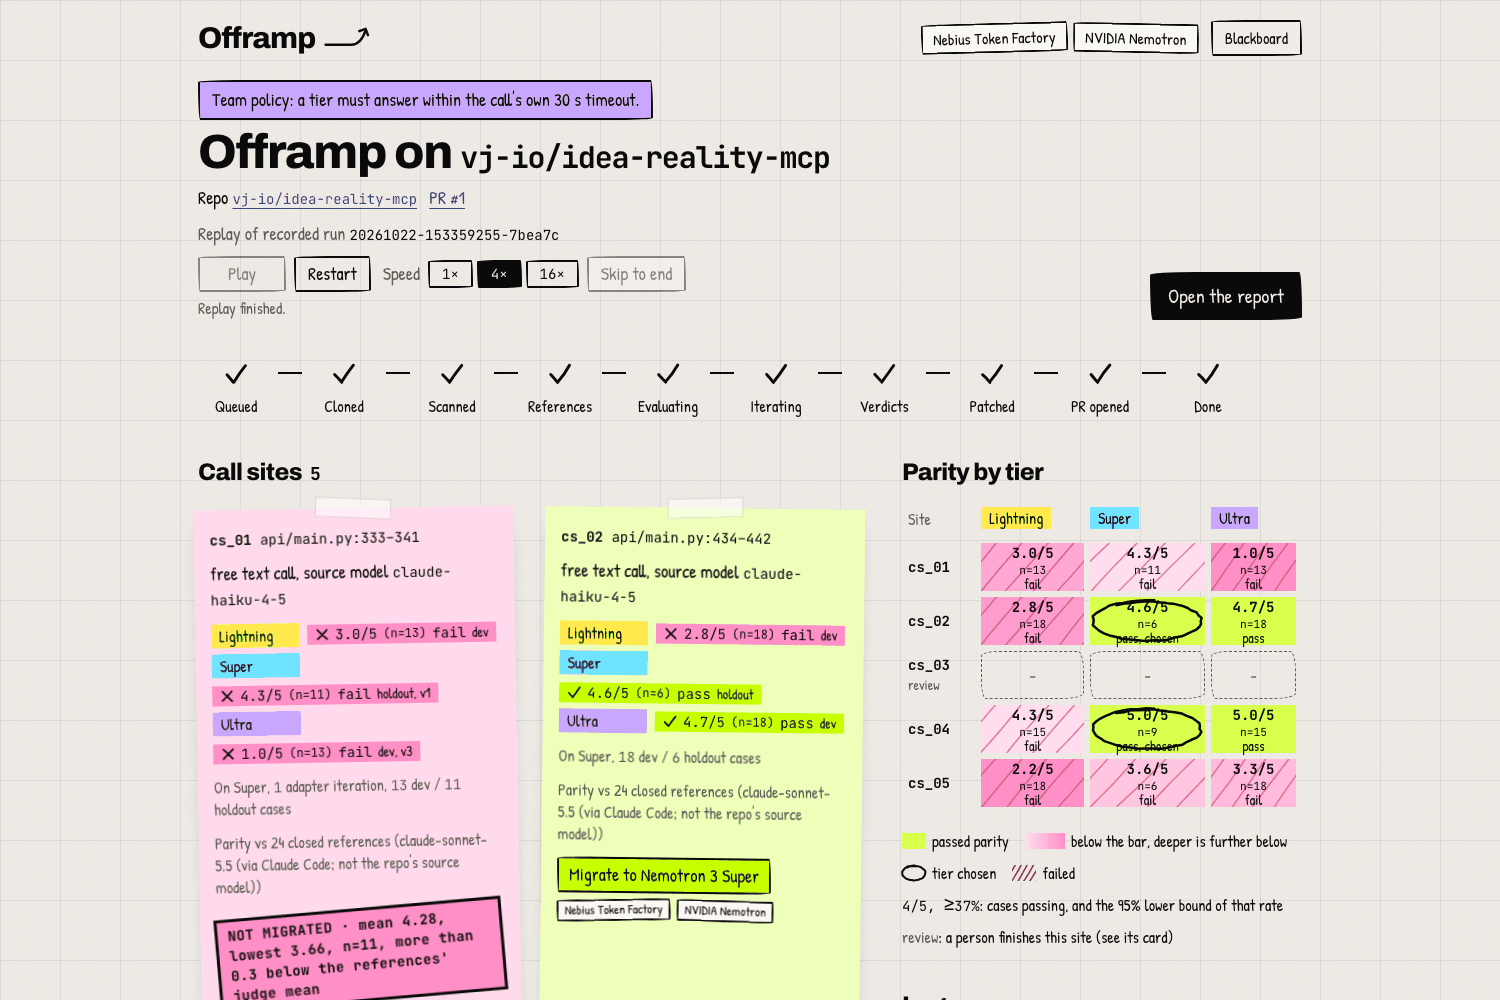
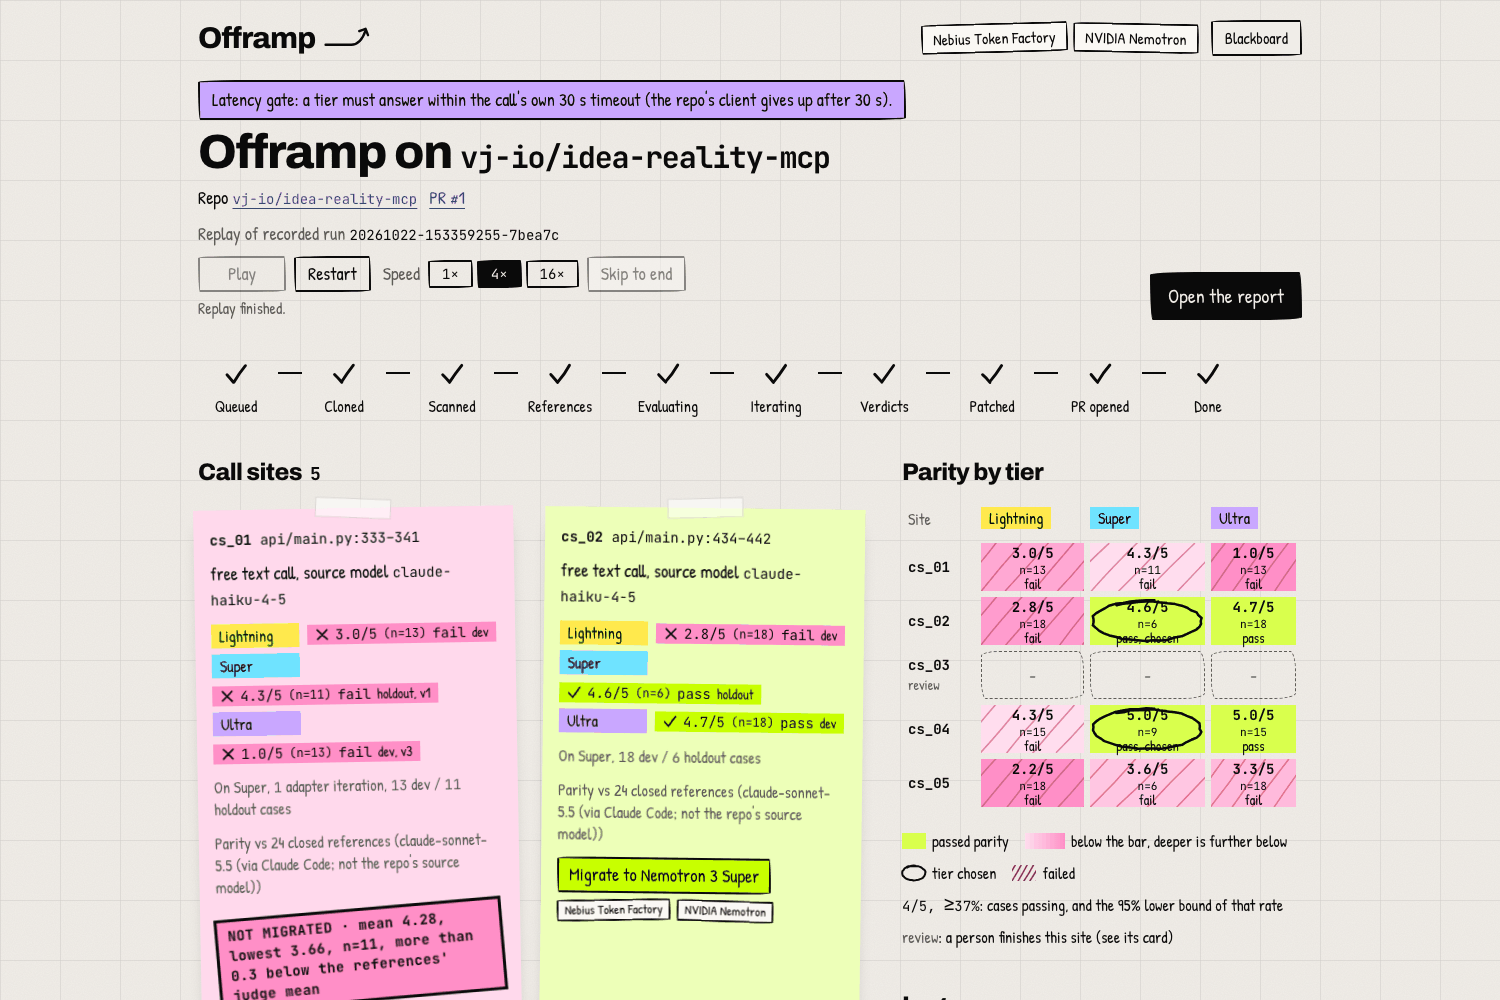
gallery: retake 06 from the hosted site, so its chip reads 'Latency gate', not 'Team policy'

Changed region(s): [[0.1227, 0.062, 0.6133, 0.124]]

diff --git a/docs/SUBMISSION.md b/docs/SUBMISSION.md
@@ -121,7 +121,7 @@ Python, FastAPI, Pydantic, SQLModel, OpenAI Python SDK, Nebius Token Factory, NV
 
 ## Gallery images
 
-1500x1000 PNGs in `docs/media/`, in this order. `00` and `07` were drawn as HTML and rendered with Playwright; `01`, `02`, `03`, `05` and `06` were taken with Playwright from the dashboard (local build, 2026-10-22); `04` is the GitHub pull request page, cropped below the site header.
+1500x1000 PNGs in `docs/media/`, in this order. `00` and `07` were drawn as HTML and rendered with Playwright; `01`, `02`, `03`, `05` and `06` were taken with Playwright from the dashboard (local build 2026-10-22; `06` retaken from the hosted site 2026-10-23); `04` is the GitHub pull request page, cropped below the site header.
 
 | File | Caption |
 |---|---|
